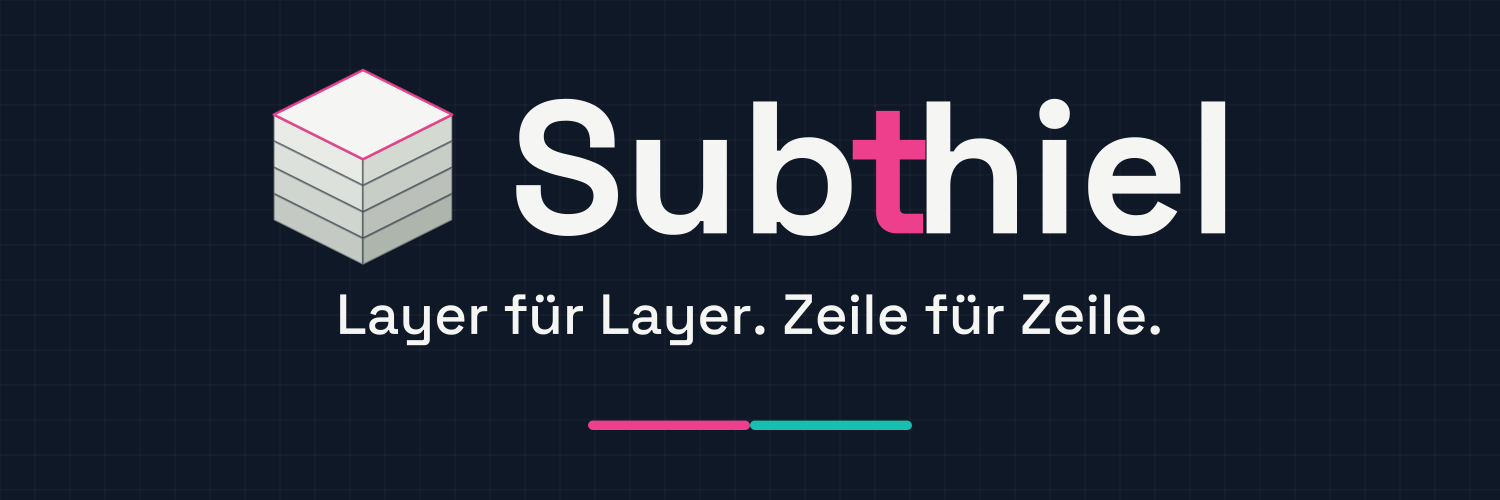
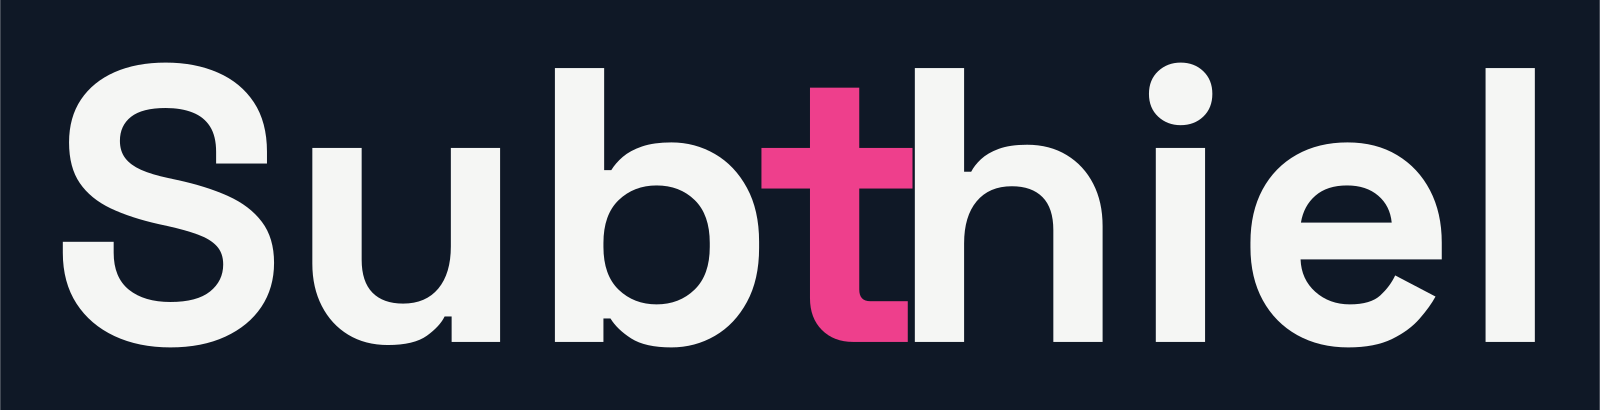
Rewrite org profile in English as company presence

diff --git a/profile/README.md b/profile/README.md
@@ -1,42 +1,57 @@
 <div align="center">
 
-<img src="https://raw.githubusercontent.com/subthiel-eu/.github/main/profile/assets/banner.png" alt="Subthiel · Layer für Layer. Zeile für Zeile." width="100%" />
+<img src="https://raw.githubusercontent.com/subthiel-eu/.github/main/profile/assets/banner.png" alt="Subthiel" width="520" />
 
-<br />
+<br /><br />
 
-**3D-Druck & Softwareentwicklung aus Viersen, NRW**
+**Layer by layer. Line by line.**
 
-![3D-Druck](https://img.shields.io/badge/3D--Druck-EE3F8C?style=for-the-badge&labelColor=0F1826)
-![Software](https://img.shields.io/badge/Softwareentwicklung-17BFB0?style=for-the-badge&labelColor=0F1826)
+3D printing and software development, built with care in Viersen, Germany.
+
+![3D Printing](https://img.shields.io/badge/3D_Printing-EE3F8C?style=for-the-badge&labelColor=0F1826)
+![Software](https://img.shields.io/badge/Software_Development-17BFB0?style=for-the-badge&labelColor=0F1826)
 
 </div>
 
 ---
 
-## Worum es geht
+## About Subthiel
 
-Subthiel verbindet zwei Handwerke: Dinge, die Schicht für Schicht aus dem Drucker wachsen, und Software, die Zeile für Zeile entsteht. Beides mit demselben Anspruch, sauber, durchdacht und bis zum letzten Layer fertig.
+Subthiel is an independent studio from Viersen, North Rhine-Westphalia, run by Marco Thiel. It works across two crafts that share the same mindset: making things properly, from the first layer to the last line.
 
-- **Fuchsia** steht bei uns immer für **3D-Druck**.
-- **Teal** steht bei uns immer für **Software**.
+- **Additive manufacturing.** Designed and 3D printed products, functional parts, and small runs, from idea and CAD to a finished, packable object.
+- **Software development.** Web applications, integrations, automation, and the tooling that keeps the workshop and the shop running.
 
-Die Akzente sind funktional, nicht dekorativ.
+The two sides are not separate hobbies, they feed each other: physical products get proper storefronts, tooling, and automation, and software projects stay grounded in something real that ships.
 
-## Was hier liegt
+## The color code
 
-Diese Organisation bündelt den Code und die Assets rund um Subthiel: Brand- und CI-Material, Shop-Theme, Produktdaten und kleine Tools wie den Reservierungs-Worker. Die meisten Repositories sind privat, das Profil hier ist der öffentliche Einstiegspunkt.
+Our two accents are functional, never decorative, and never mixed:
 
-## Kontakt
+- 🩷 **Fuchsia** always means **3D printing**.
+- 🩵 **Teal** always means **software**.
+
+## What lives here
+
+This organization is the home for Subthiel's code and assets. Most product and shop repositories are private, but this is also where we plan to publish the parts worth sharing:
+
+- 🛠️ **Tools & utilities** we build for our own workflow, printing, and shop operations.
+- 📖 **Open source** projects and small libraries, released when they can stand on their own.
+- 🎨 **Brand & design** assets and the conventions behind them.
+
+If you find something here useful, feel free to open an issue or reach out.
+
+## Get in touch
 
 | | |
 |---|---|
 | 🛒 Shop | [shop.subthiel.eu](https://shop.subthiel.eu) |
-| ✉️ E-Mail | [[email redacted]](mailto:[email redacted]) |
-| 📍 Standort | Viersen, Nordrhein-Westfalen |
+| ✉️ Email | [[email redacted]](mailto:[email redacted]) |
+| 📍 Based in | Viersen, North Rhine-Westphalia, Germany |
 
 <div align="center">
 <br />
-<sub>Subthiel · Marco Thiel · Kleinunternehmer nach §19 UStG</sub>
-<br />
-<strong>Layer für Layer. Zeile für Zeile.</strong>
+<sub>Subthiel · Marco Thiel · small business under §19 German VAT Act (Kleinunternehmer)</sub>
+<br /><br />
+<strong>Layer by layer. Line by line.</strong>
 </div>